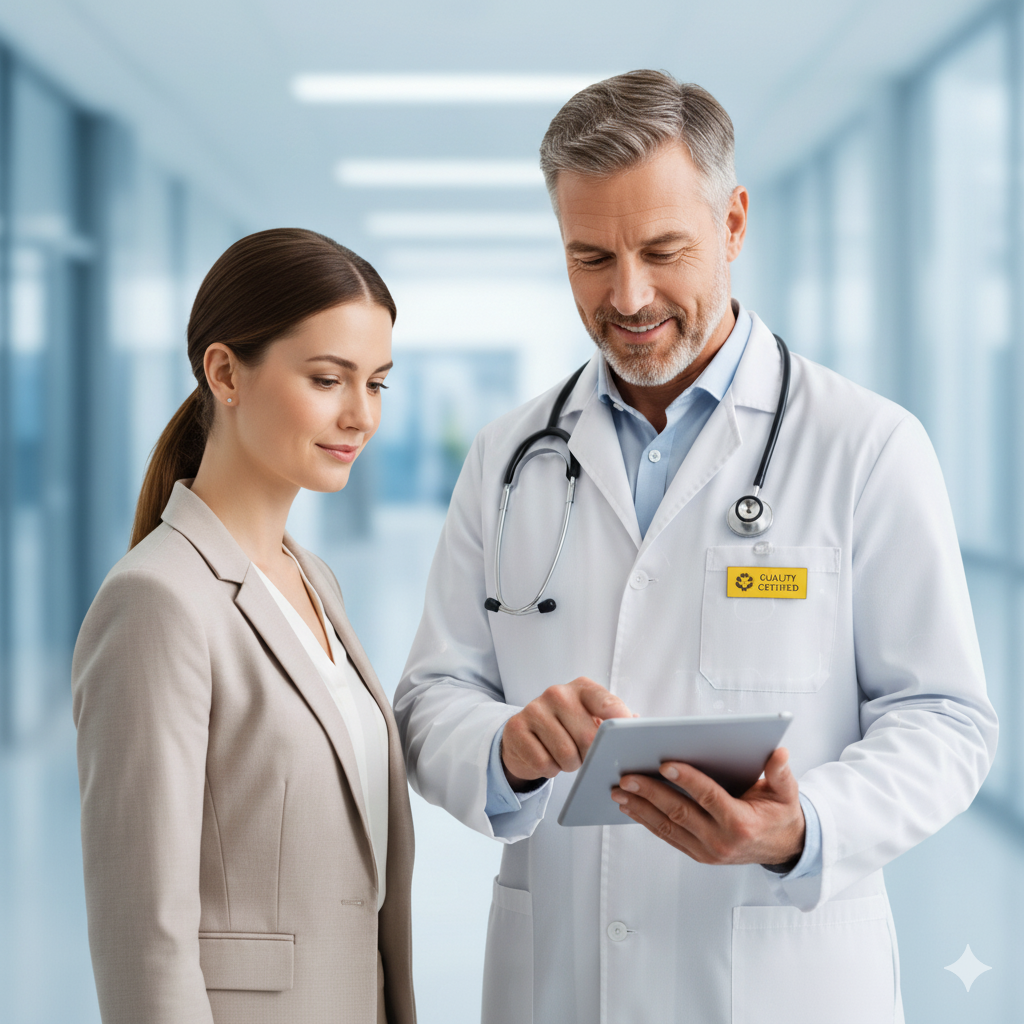
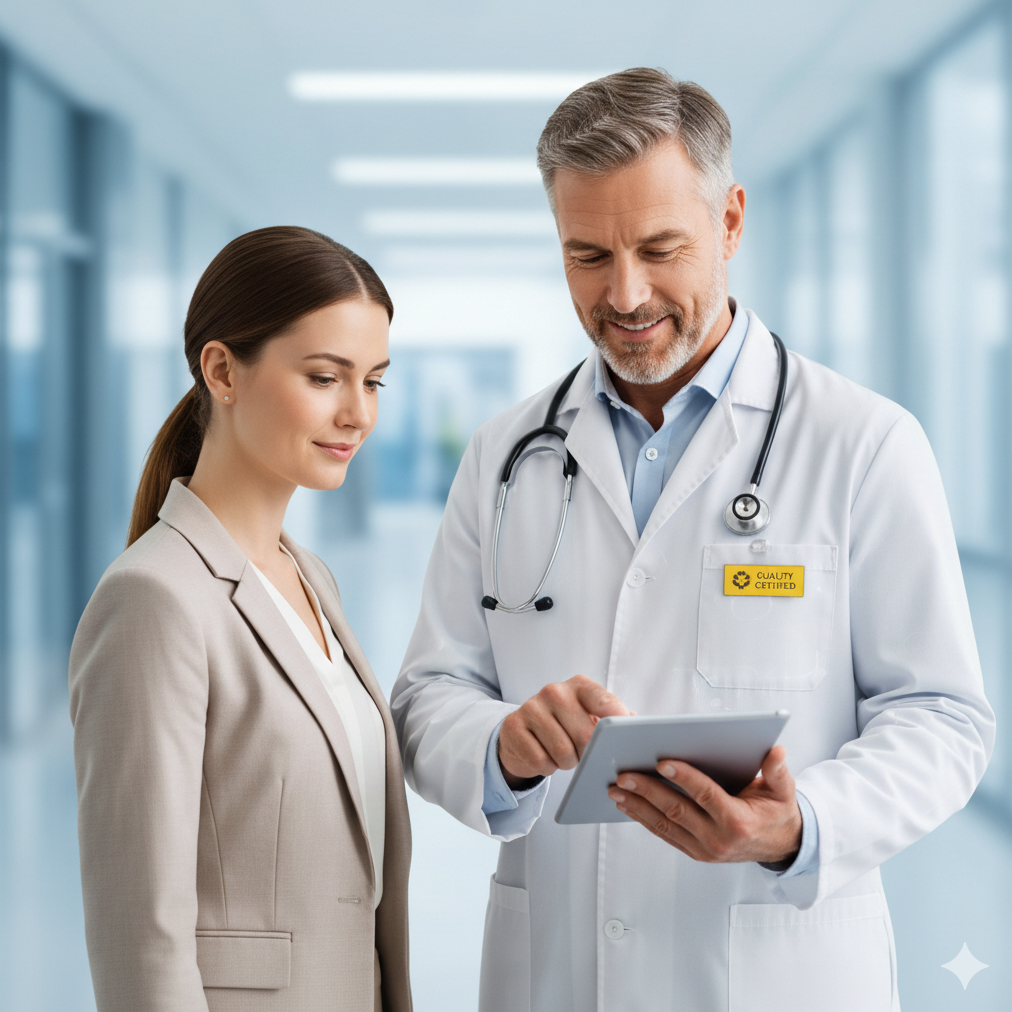
refactor:images used

diff --git a/client/src/components/Patient/PatientDashboard/HeroSection.jsx b/client/src/components/Patient/PatientDashboard/HeroSection.jsx
@@ -101,7 +101,7 @@ const HeroSection = ({ onPillHover }) => {
               <img
                 src={Doctor}
                 alt="Healthcare illustration"
-                className="max-h-full w-auto object-contain drop-shadow-2xl"
+                className="max-h-full w-full object-contain drop-shadow-2xl"
               />
               <div className="absolute inset-0 bg-gradient-to-br from-white/20 to-transparent rounded-2xl blur-3xl -z-10" />
             </div>
